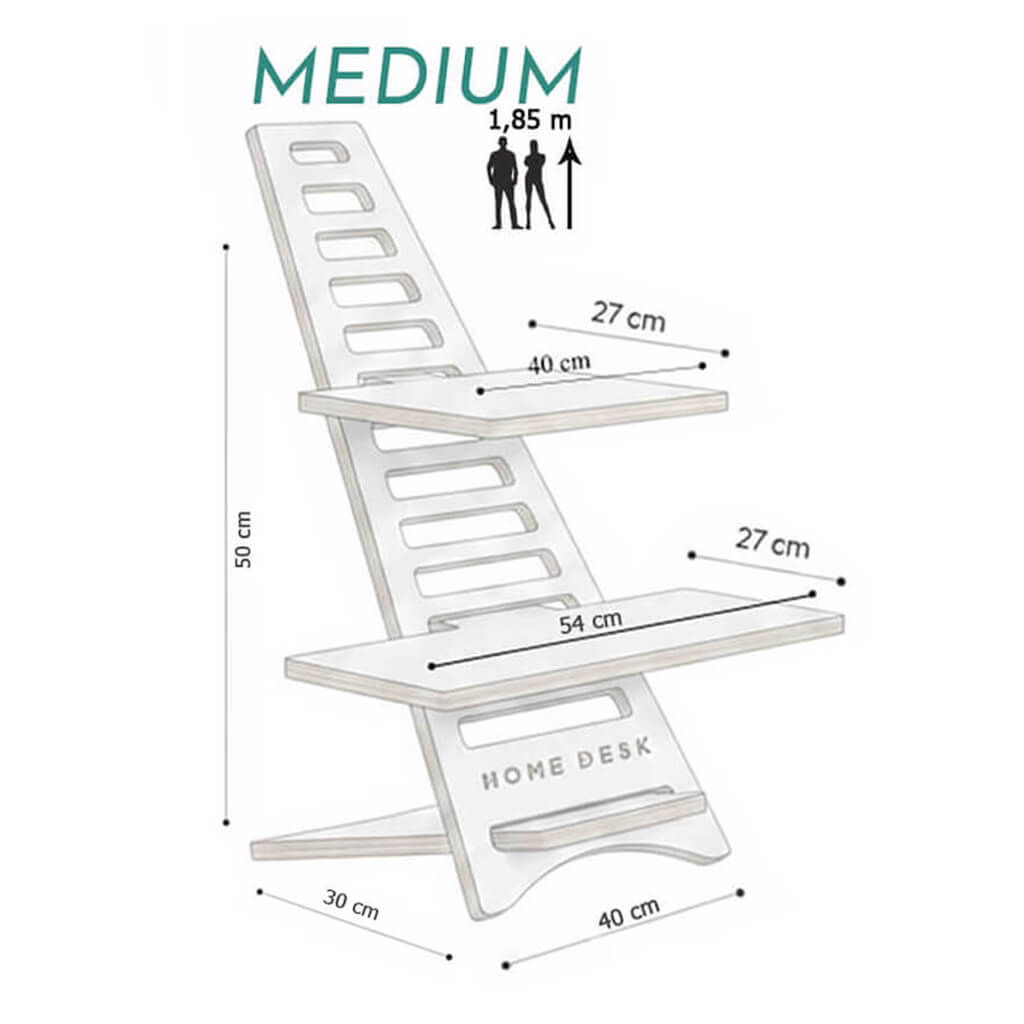
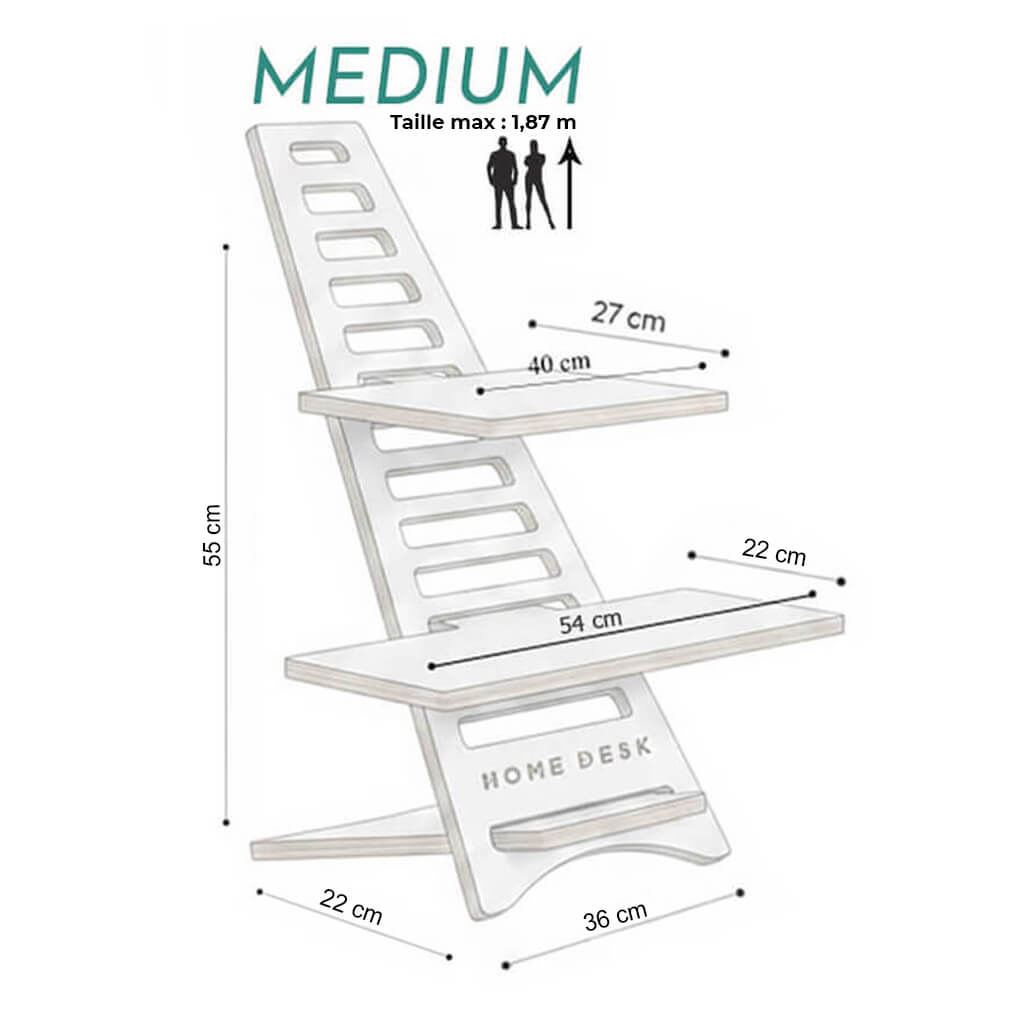
update quick view

diff --git a/wp-content/themes/oceanwp/assets/css/custom.css b/wp-content/themes/oceanwp/assets/css/custom.css
@@ -2571,3 +2571,9 @@ body.img-popup-open { overflow: hidden; }
         text-align: center;
     }
 }
+
+/* ── Masquer l'icône Quick View sur les blocs produits (page shop / archives) ── */
+.woocommerce .products .owp-quick-view,
+.woo-entry-image .owp-quick-view {
+    display: none !important;
+}
